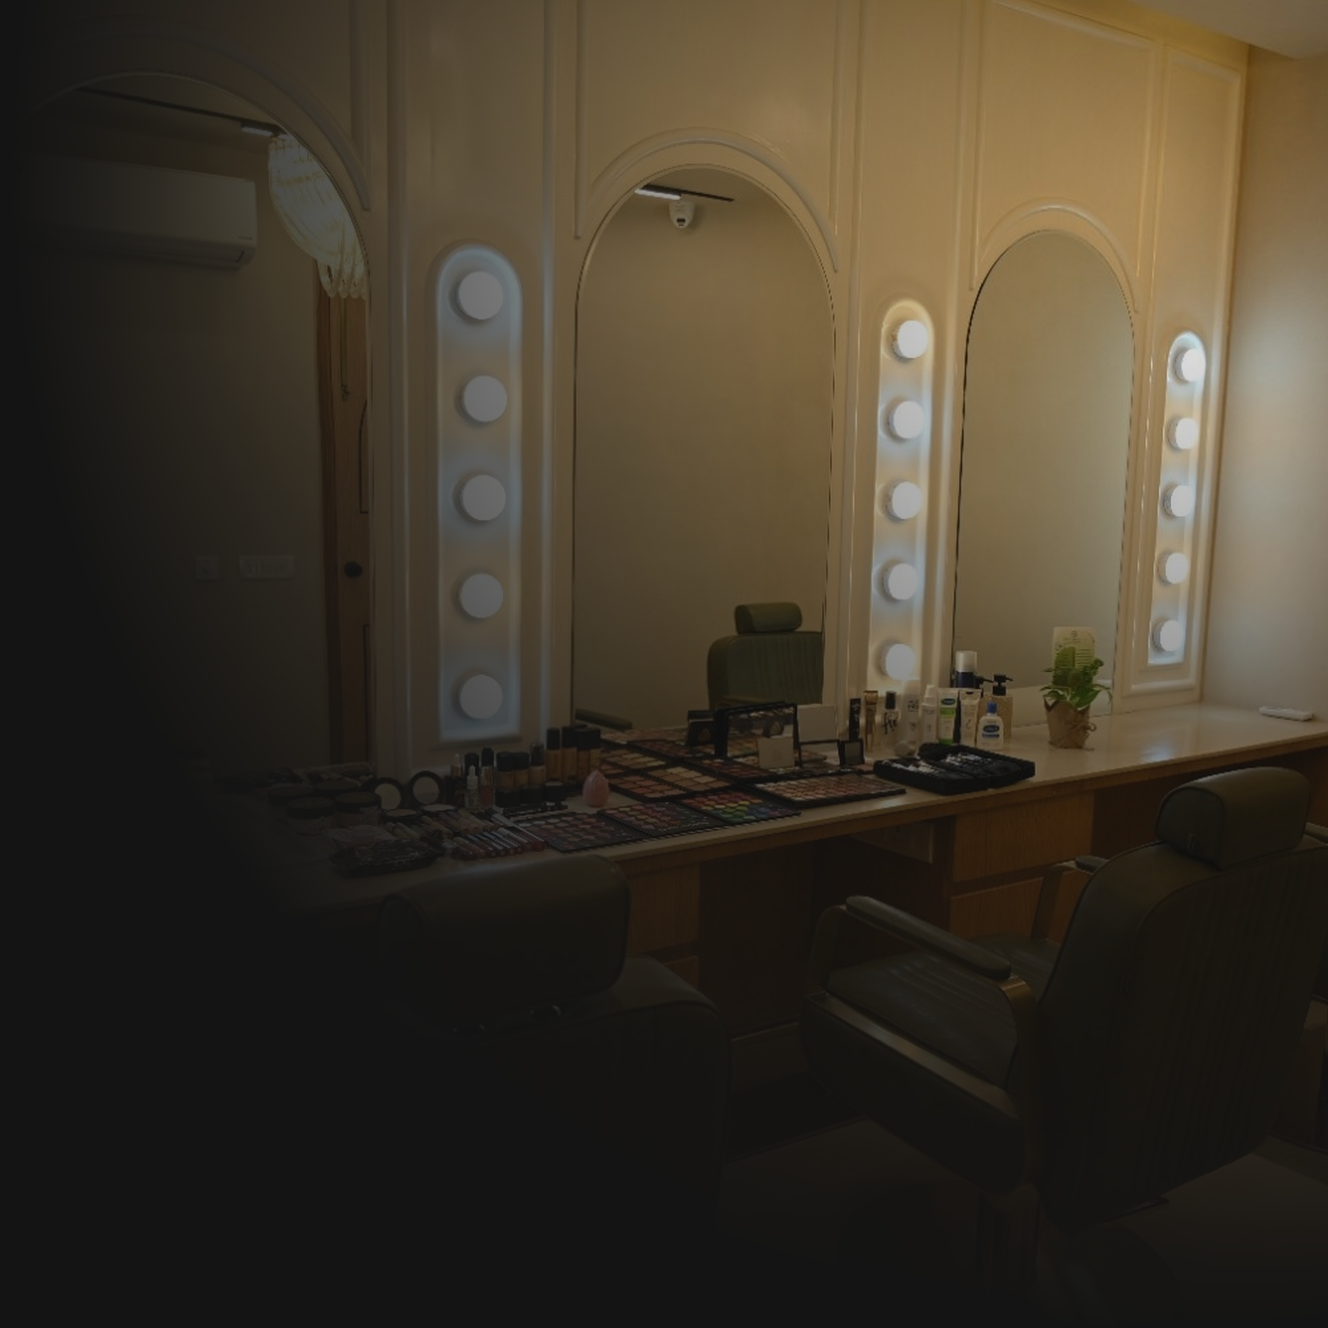
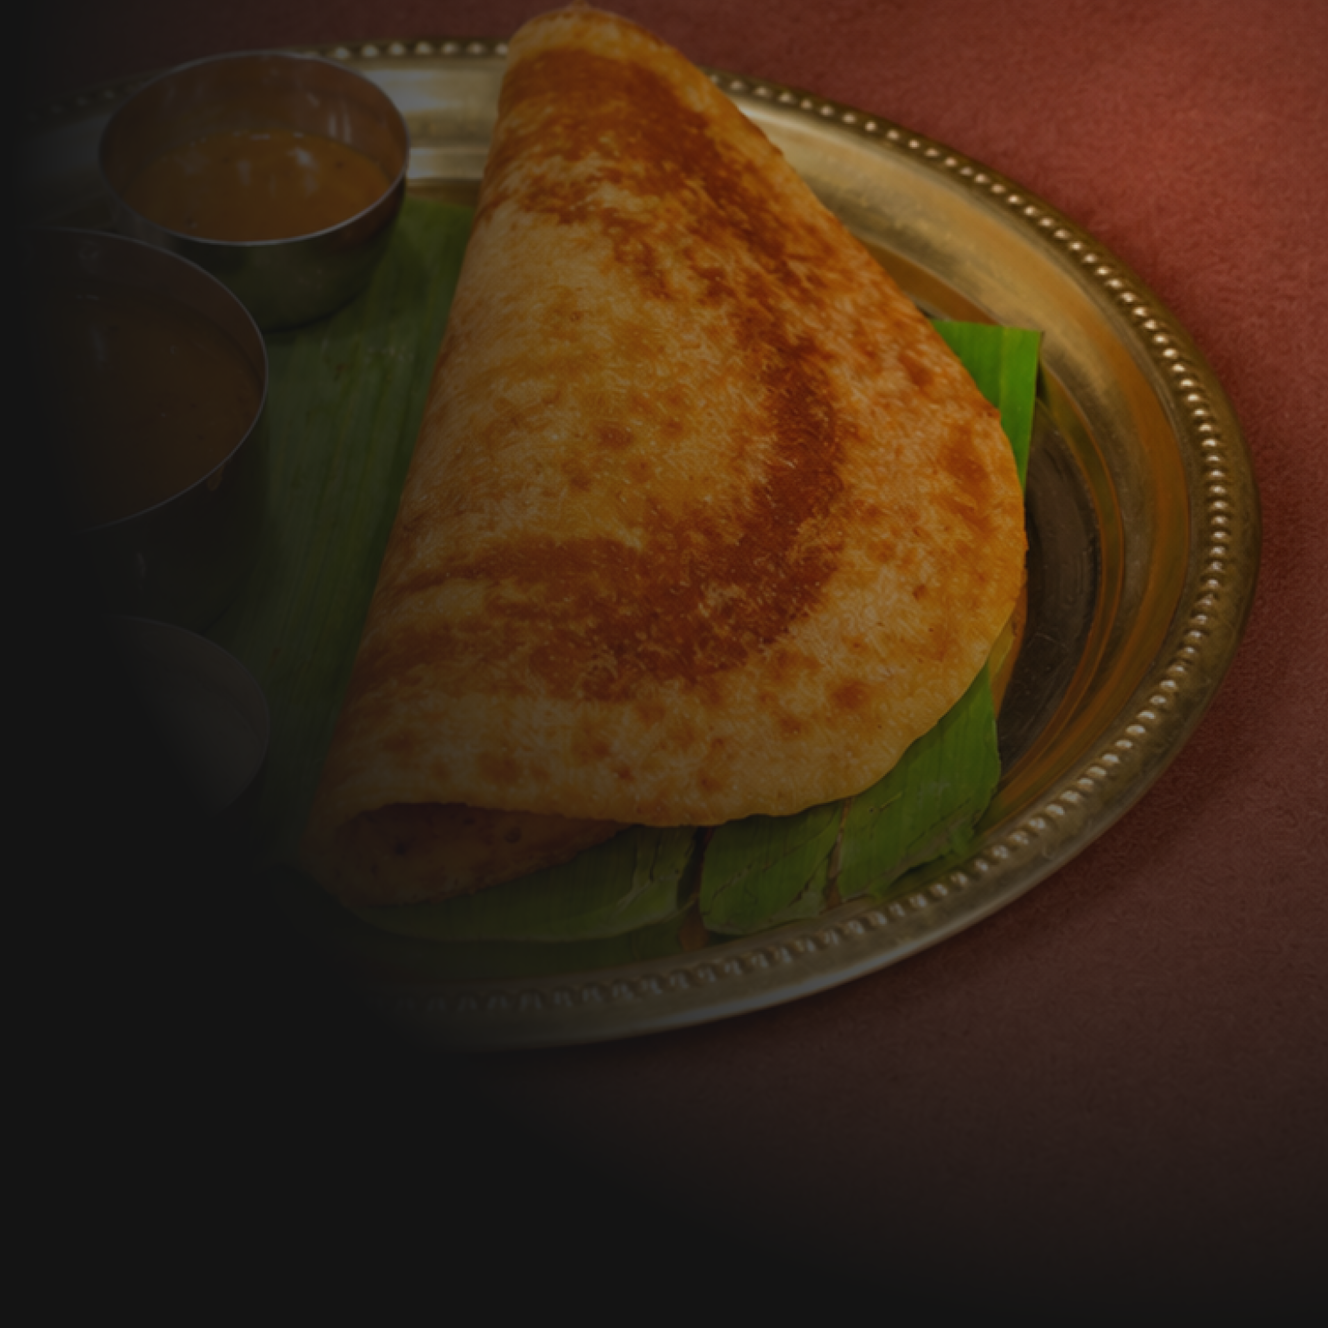
Rameshwaram Dosa copy and photo, footer Food & Beverage link
- Replace placeholder Peluqueria copy on rameshwaram-dosa.html with
  Rameshwaram Dosa text; story image now a masala dosa photo
- Footer: merge Restaurant/Cafe into one Food & Beverage link and
  remove the Work link for now
- Add pending.md to track open items

diff --git a/rameshwaram-dosa.html b/rameshwaram-dosa.html
@@ -136,32 +136,31 @@
       </div>
     </section>
 
-    <!-- TODO: copy in the two sections below is placeholder carried over from the Figma file (Peluqueria text) -->
     <section class="lapetos-trusted">
       <div class="lapetos-trusted-text">
-        <p class="lapetos-heading-72"><span class="accent">Booked Out</span>.<br>Chair After Chair</p>
-        <p class="lapetos-body-20">We built Peluqueria from the ground up, from outlet selection and branding to a
-          launch the city couldn't ignore. With Sarah Khan headlining day one and storytelling-led content building
-          anticipation before the doors opened, the chairs filled fast and stayed full.</p>
+        <p class="lapetos-heading-72"><span class="accent">Authentic</span>.<br>Straight Off the Tawa</p>
+        <p class="lapetos-body-20">Rameshwaram Dosa serves South Indian food the way it's meant to be made, with
+          pure ghee, banana leaves and brass thalis. We built a feed that carries that same care, turning every
+          masala dosa, medu vada and filter coffee into a moment worth stopping the scroll for.</p>
       </div>
       <div class="lapetos-trusted-imgwrap">
-        <img src="assets/02 - Work Page/07 - Rameshwaram Dosa/Frame 708.png" alt="Rameshwaram Dosa">
+        <img src="assets/02 - Work Page/07 - Rameshwaram Dosa/Frame 708.png" alt="Masala dosa on a brass thali">
       </div>
     </section>
 
     <section class="lapetos-bigreach">
       <div class="lapetos-bigreach-header">
-        <p class="lapetos-heading-72"><span class="accent">The Talk</span><br>of the Town</p>
-        <p class="lapetos-bigreach-sub">We set up Peluqueria's page from scratch and paired a celebrity-led launch with
-          influencer buzz to drive footfall and fill the books.</p>
+        <p class="lapetos-heading-72"><span class="accent">South India</span>,<br>Served Fresh.</p>
+        <p class="lapetos-bigreach-sub">We shape Rameshwaram Dosa's Instagram with menu-led posts and close-up reels
+          that show the food exactly as it's made, from the ghee pour to the first crisp bite.</p>
       </div>
       <div class="lapetos-bigreach-body">
         <div class="lapetos-stats-card">
           <div class="lapetos-stats-inner">
-            <p class="lapetos-stat-label">Hair Color Campaign</p>
-            <p class="lapetos-stat-num">200k+</p>
-            <p class="lapetos-stat-desc">accounts reached in a month</p>
-            <div class="lapetos-stat-pill">FUELED BY PRECISE AD CAMPAIGN</div>
+            <p class="lapetos-stat-label">Pure Veg Kitchen</p>
+            <p class="lapetos-stat-num">100%</p>
+            <p class="lapetos-stat-desc">pure veg, cooked in pure ghee</p>
+            <div class="lapetos-stat-pill">FRESH · FLUFFY · AUTHENTIC</div>
           </div>
         </div>
         <div class="lapetos-features">
@@ -171,9 +170,9 @@
                 alt="">
             </div>
             <div class="lapetos-feature-text">
-              <p class="lapetos-feature-name">Star-Led Launch</p>
-              <p class="lapetos-feature-desc">Sarah Khan headlined opening day and turned the launch into a city-wide
-                moment.</p>
+              <p class="lapetos-feature-name">Menu Stories</p>
+              <p class="lapetos-feature-desc">Masala dosa, idli and medu vada, each styled as the hero of its own post.
+              </p>
             </div>
           </div>
           <div class="lapetos-feature-item">
@@ -182,8 +181,8 @@
                 alt="">
             </div>
             <div class="lapetos-feature-text">
-              <p class="lapetos-feature-name">Influencers in the Chair</p>
-              <p class="lapetos-feature-desc">The city's top creators came through and shared it with their audiences.
+              <p class="lapetos-feature-name">Filter Coffee Moments</p>
+              <p class="lapetos-feature-desc">Monday Tip posts built around the South Indian filter coffee ritual.
               </p>
             </div>
           </div>
@@ -193,8 +192,8 @@
                 alt="">
             </div>
             <div class="lapetos-feature-text">
-              <p class="lapetos-feature-name">Sold Out, Three Days Straight</p>
-              <p class="lapetos-feature-desc">A one-day Hair Color Day stretched to three and still sold out every slot.
+              <p class="lapetos-feature-name">Pure Ghee, On Camera</p>
+              <p class="lapetos-feature-desc">Close-up reels that let the ghee pour and the crisp dosa do the talking.
               </p>
             </div>
           </div>
@@ -224,7 +223,6 @@
       <div class="footer-right">
         <div class="footer-column">
           <ul class="footer-links">
-            <li class="footer-link-item"><a href="index.html#work">Work</a></li>
             <li class="footer-link-item"><a href="index.html#services">Services</a></li>
             <li class="footer-link-item"><a href="about.html">About</a></li>
             <li class="footer-link-item"><a href="contact.html">Contact</a></li>
@@ -232,8 +230,7 @@
         </div>
         <div class="footer-column">
           <ul class="footer-links">
-            <li class="footer-link-item"><a href="pista-house.html">Restaurant</a></li>
-            <li class="footer-link-item"><a href="lumie.html">Cafe</a></li>
+            <li class="footer-link-item"><a href="food-beverage.html">Food &amp; Beverage</a></li>
             <li class="footer-link-item"><a href="lapetos-healthcare.html">Healthcare</a></li>
             <li class="footer-link-item"><a href="peluqueria.html">Beauty</a></li>
             <li class="footer-link-item"><a href="allenhouse-lucknow.html">Education</a></li>

diff --git a/allenhouse-lucknow.html b/allenhouse-lucknow.html
@@ -272,7 +272,6 @@
       <div class="footer-right">
         <div class="footer-column">
           <ul class="footer-links">
-            <li class="footer-link-item"><a href="index.html#work">Work</a></li>
             <li class="footer-link-item"><a href="index.html#services">Services</a></li>
             <li class="footer-link-item"><a href="about.html">About</a></li>
             <li class="footer-link-item"><a href="contact.html">Contact</a></li>
@@ -280,8 +279,7 @@
         </div>
         <div class="footer-column">
           <ul class="footer-links">
-            <li class="footer-link-item"><a href="pista-house.html">Restaurant</a></li>
-            <li class="footer-link-item"><a href="lumie.html">Cafe</a></li>
+            <li class="footer-link-item"><a href="food-beverage.html">Food &amp; Beverage</a></li>
             <li class="footer-link-item"><a href="lapetos-healthcare.html">Healthcare</a></li>
             <li class="footer-link-item"><a href="peluqueria.html">Beauty</a></li>
             <li class="footer-link-item"><a href="allenhouse-lucknow.html">Education</a></li>

diff --git a/food-beverage.html b/food-beverage.html
@@ -113,7 +113,6 @@
       <div class="footer-right">
         <div class="footer-column">
           <ul class="footer-links">
-            <li class="footer-link-item"><a href="index.html#work">Work</a></li>
             <li class="footer-link-item"><a href="index.html#services">Services</a></li>
             <li class="footer-link-item"><a href="about.html">About</a></li>
             <li class="footer-link-item"><a href="contact.html">Contact</a></li>
@@ -121,8 +120,7 @@
         </div>
         <div class="footer-column">
           <ul class="footer-links">
-            <li class="footer-link-item"><a href="pista-house.html">Restaurant</a></li>
-            <li class="footer-link-item"><a href="lumie.html">Cafe</a></li>
+            <li class="footer-link-item"><a href="food-beverage.html">Food &amp; Beverage</a></li>
             <li class="footer-link-item"><a href="lapetos-healthcare.html">Healthcare</a></li>
             <li class="footer-link-item"><a href="peluqueria.html">Beauty</a></li>
             <li class="footer-link-item"><a href="allenhouse-lucknow.html">Education</a></li>

diff --git a/lapetos-healthcare.html b/lapetos-healthcare.html
@@ -328,7 +328,6 @@
       <div class="footer-right">
         <div class="footer-column">
           <ul class="footer-links">
-            <li class="footer-link-item"><a href="index.html#work">Work</a></li>
             <li class="footer-link-item"><a href="index.html#services">Services</a></li>
             <li class="footer-link-item"><a href="about.html">About</a></li>
             <li class="footer-link-item"><a href="contact.html">Contact</a></li>
@@ -336,8 +335,7 @@
         </div>
         <div class="footer-column">
           <ul class="footer-links">
-            <li class="footer-link-item"><a href="pista-house.html">Restaurant</a></li>
-            <li class="footer-link-item"><a href="lumie.html">Cafe</a></li>
+            <li class="footer-link-item"><a href="food-beverage.html">Food &amp; Beverage</a></li>
             <li class="footer-link-item"><a href="lapetos-healthcare.html">Healthcare</a></li>
             <li class="footer-link-item"><a href="peluqueria.html">Beauty</a></li>
             <li class="footer-link-item"><a href="allenhouse-lucknow.html">Education</a></li>

diff --git a/lumie.html b/lumie.html
@@ -264,7 +264,6 @@
       <div class="footer-right">
         <div class="footer-column">
           <ul class="footer-links">
-            <li class="footer-link-item"><a href="index.html#work">Work</a></li>
             <li class="footer-link-item"><a href="index.html#services">Services</a></li>
             <li class="footer-link-item"><a href="about.html">About</a></li>
             <li class="footer-link-item"><a href="contact.html">Contact</a></li>
@@ -272,8 +271,7 @@
         </div>
         <div class="footer-column">
           <ul class="footer-links">
-            <li class="footer-link-item"><a href="pista-house.html">Restaurant</a></li>
-            <li class="footer-link-item"><a href="lumie.html">Cafe</a></li>
+            <li class="footer-link-item"><a href="food-beverage.html">Food &amp; Beverage</a></li>
             <li class="footer-link-item"><a href="lapetos-healthcare.html">Healthcare</a></li>
             <li class="footer-link-item"><a href="peluqueria.html">Beauty</a></li>
             <li class="footer-link-item"><a href="allenhouse-lucknow.html">Education</a></li>

diff --git a/peluqueria.html b/peluqueria.html
@@ -286,7 +286,6 @@
       <div class="footer-right">
         <div class="footer-column">
           <ul class="footer-links">
-            <li class="footer-link-item"><a href="index.html#work">Work</a></li>
             <li class="footer-link-item"><a href="index.html#services">Services</a></li>
             <li class="footer-link-item"><a href="about.html">About</a></li>
             <li class="footer-link-item"><a href="contact.html">Contact</a></li>
@@ -294,8 +293,7 @@
         </div>
         <div class="footer-column">
           <ul class="footer-links">
-            <li class="footer-link-item"><a href="pista-house.html">Restaurant</a></li>
-            <li class="footer-link-item"><a href="lumie.html">Cafe</a></li>
+            <li class="footer-link-item"><a href="food-beverage.html">Food &amp; Beverage</a></li>
             <li class="footer-link-item"><a href="lapetos-healthcare.html">Healthcare</a></li>
             <li class="footer-link-item"><a href="peluqueria.html">Beauty</a></li>
             <li class="footer-link-item"><a href="allenhouse-lucknow.html">Education</a></li>

diff --git a/pista-house.html b/pista-house.html
@@ -289,7 +289,6 @@
       <div class="footer-right">
         <div class="footer-column">
           <ul class="footer-links">
-            <li class="footer-link-item"><a href="index.html#work">Work</a></li>
             <li class="footer-link-item"><a href="index.html#services">Services</a></li>
             <li class="footer-link-item"><a href="about.html">About</a></li>
             <li class="footer-link-item"><a href="contact.html">Contact</a></li>
@@ -297,8 +296,7 @@
         </div>
         <div class="footer-column">
           <ul class="footer-links">
-            <li class="footer-link-item"><a href="pista-house.html">Restaurant</a></li>
-            <li class="footer-link-item"><a href="lumie.html">Cafe</a></li>
+            <li class="footer-link-item"><a href="food-beverage.html">Food &amp; Beverage</a></li>
             <li class="footer-link-item"><a href="lapetos-healthcare.html">Healthcare</a></li>
             <li class="footer-link-item"><a href="peluqueria.html">Beauty</a></li>
             <li class="footer-link-item"><a href="allenhouse-lucknow.html">Education</a></li>

diff --git a/about.html b/about.html
@@ -399,7 +399,6 @@
       <div class="footer-right">
         <div class="footer-column">
           <ul class="footer-links">
-            <li class="footer-link-item"><a href="work.html">Work</a></li>
             <li class="footer-link-item"><a href="index.html#services">Services</a></li>
             <li class="footer-link-item"><a href="about.html">About</a></li>
             <li class="footer-link-item"><a href="contact.html">Contact</a></li>
@@ -407,8 +406,7 @@
         </div>
         <div class="footer-column">
           <ul class="footer-links">
-            <li class="footer-link-item"><a href="pista-house.html">Restaurant</a></li>
-            <li class="footer-link-item"><a href="lumie.html">Cafe</a></li>
+            <li class="footer-link-item"><a href="food-beverage.html">Food &amp; Beverage</a></li>
             <li class="footer-link-item"><a href="lapetos-healthcare.html">Healthcare</a></li>
             <li class="footer-link-item"><a href="peluqueria.html">Beauty</a></li>
             <li class="footer-link-item"><a href="allenhouse-lucknow.html">Education</a></li>

diff --git a/contact.html b/contact.html
@@ -179,7 +179,6 @@
       <div class="footer-right">
         <div class="footer-column">
           <ul class="footer-links">
-            <li class="footer-link-item"><a href="work.html">Work</a></li>
             <li class="footer-link-item"><a href="index.html#services">Services</a></li>
             <li class="footer-link-item"><a href="about.html">About</a></li>
             <li class="footer-link-item"><a href="contact.html">Contact</a></li>
@@ -187,8 +186,7 @@
         </div>
         <div class="footer-column">
           <ul class="footer-links">
-            <li class="footer-link-item"><a href="pista-house.html">Restaurant</a></li>
-            <li class="footer-link-item"><a href="lumie.html">Cafe</a></li>
+            <li class="footer-link-item"><a href="food-beverage.html">Food &amp; Beverage</a></li>
             <li class="footer-link-item"><a href="lapetos-healthcare.html">Healthcare</a></li>
             <li class="footer-link-item"><a href="peluqueria.html">Beauty</a></li>
             <li class="footer-link-item"><a href="allenhouse-lucknow.html">Education</a></li>

diff --git a/sections/footer.html b/sections/footer.html
@@ -19,7 +19,6 @@
     <div class="footer-right">
       <div class="footer-column">
         <ul class="footer-links">
-          <li class="footer-link-item"><a href="index.html#work">Work</a></li>
           <li class="footer-link-item"><a href="index.html#services">Services</a></li>
           <li class="footer-link-item"><a href="about.html">About</a></li>
           <li class="footer-link-item"><a href="contact.html">Contact</a></li>
@@ -27,8 +26,7 @@
       </div>
       <div class="footer-column">
         <ul class="footer-links">
-          <li class="footer-link-item"><a href="pista-house.html">Restaurant</a></li>
-          <li class="footer-link-item"><a href="lumie.html">Cafe</a></li>
+          <li class="footer-link-item"><a href="food-beverage.html">Food &amp; Beverage</a></li>
           <li class="footer-link-item"><a href="lapetos-healthcare.html">Healthcare</a></li>
           <li class="footer-link-item"><a href="peluqueria.html">Beauty</a></li>
           <li class="footer-link-item"><a href="allenhouse-lucknow.html">Education</a></li>

diff --git a/pending.md b/pending.md
@@ -1,0 +1,29 @@
+# Pending
+
+Open items on the Éclat Narrative site. Remove each entry once it's done.
+
+## Footer "Work" link removed
+
+- **Where:** every footer: all pages plus `sections/footer.html`.
+- **Why:** `about.html` and `contact.html` pointed the link to `work.html`, a page that doesn't exist. The link was taken out of all footers for now to keep them consistent.
+- **To do:** decide where the link should go, then add it back. Most pages used `index.html#work`, the Work section on the home page, and that link works.
+
+## Rameshwaram Dosa: reel links point to Pista House
+
+- **Where:**
+  - `rameshwaram-dosa.html`, Reels tab.
+  - `sections/work.html`, home page Work section → Food & Beverage → Rameshwaram Dosa → Reels.
+- **Current links:** these came from the Figma file and belong to Pista House reels:
+  - `https://www.instagram.com/reel/DWWX6_mkxX5/`
+  - `https://www.instagram.com/reel/DW_gBwrEwR7/`
+  - `https://www.instagram.com/p/DWyvyIYivoG/`
+- **To do:** replace them with the Rameshwaram Dosa reel URLs. Update both files.
+
+## Rameshwaram Dosa: page text written without client input
+
+- **Where:** `rameshwaram-dosa.html`:
+  - The two lines under the tabs.
+  - The "Authentic. Straight Off the Tawa" section.
+  - The "South India, Served Fresh." section.
+- **To do:** review the text with the team or client.
+- **Stats card:** it shows "100% pure veg, cooked in pure ghee", taken from the brand's own signage and posts. No campaign results were available, so there is no reach or engagement figure. When real numbers exist, change it to match the other brand pages (for example "X accounts reached").
